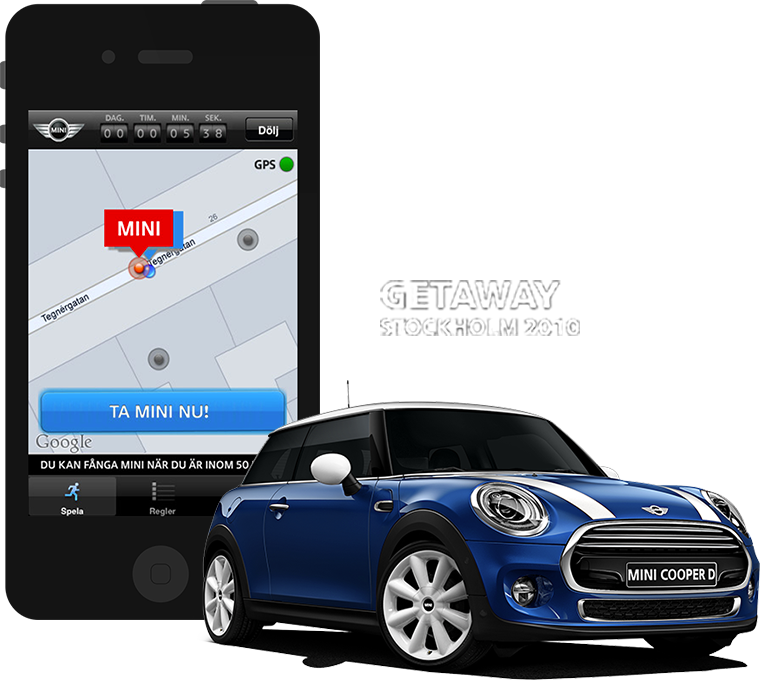
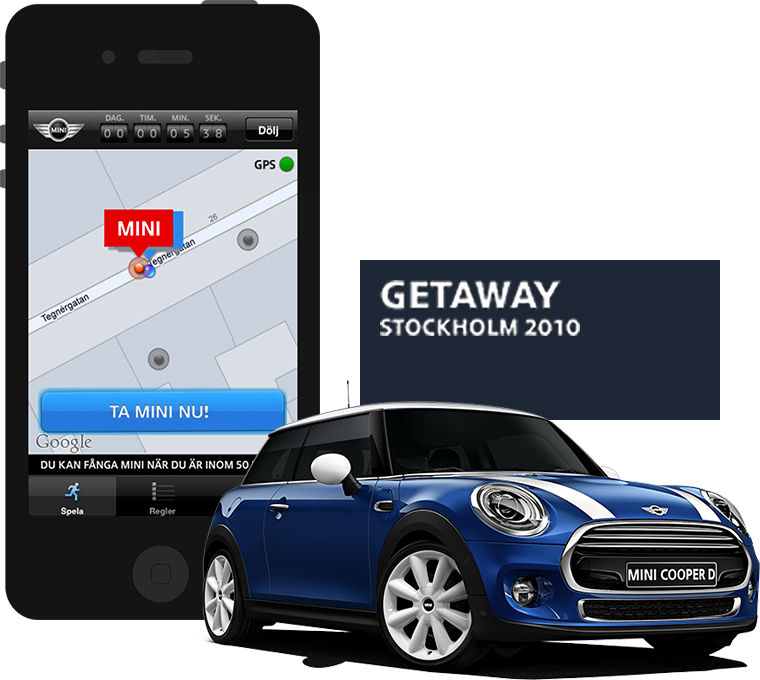
mini cooper copy and assets

Changed region(s): [[0.4539, 0.3706, 0.9684, 0.6176]]

diff --git a/site/content/work/mini-getaway.html b/site/content/work/mini-getaway.html
@@ -2,13 +2,12 @@
    "client": "",
    "date": "2014-08-29T12:49:26+02:00",
    "small_image": "mini.jpg",
-   "subtitle": "MiniCooper",
+   "pretitle": "MINI",
    "title": "Mini Getaway",
    "color": "#4f5660"
 }
 
 <img src="/img/work/case/minicooper/asset_header.png" class="work__header-image work__header-image--mini">
-
 
 <section class="work__tldr">
     <div class="container">
@@ -19,59 +18,57 @@
     </div>
 </section>
 
-
 <section class="work__section work__section--three-points work__section--mini--three-points">
     <div class="container">
         <div class="grid">
             <div class="grid__item lap-and-up-one-third">
                 <strong>Scalability</strong><br>
-                many user. such requests. wow.
-
+                A campaign that is built around a peak in users as the competiton ends needs to scale with the demand.
             </div><!--
             --><div class="grid__item lap-and-up-one-third">
                 <strong>The mission</strong><br>
-                Get the car
-
+                Chase a virtual Mini using your smartphone, and have a chance of winning a real car!
             </div><!--
             --><div class="grid__item lap-and-up-one-third">
-                <strong>GPS</strong><br>
-                irl experience
-
+                <strong>Partners</strong><br>
+                We worked with Jung von Matt and Monterosa.
             </div>
         </div>
 
     </div>
 </section>
 
-
 <section class="work__section work__section--mini--awards">
     <div class="container">
         <div class="grid">
             <div class="grid__item one-quarter">
-                fwa
+                Cannes Lions Bronze in Promo & Media  2011
             </div><!--
             --><div class="grid__item one-quarter">
-                2
+                Cannes Lions Cyber Gold 2011
             </div><!--
             --><div class="grid__item one-quarter">
-                3
+                Clio Awards
+                Gold Innovative Media & Bronze Interactive 2011
             </div><!--
             --><div class="grid__item one-quarter">
-                4
+                One Show
+                Gold Interactive 2011
             </div>
         </div>
     </div>
 </section>
 
 <section class="work__section container container--tight">
-    <img src="/img/work/case/minicooper/asset_getaway2010.jpg">
+    <img src="/img/work/case/minicooper/asset_getaway2010.png">
 </section>
 
 <section class=" container container--tight">
     <h2>Background</h2>
     <p>
-        @todo
-        Vivamus sagittis lacus vel augue laoreet rutrum faucibus dolor auctor. Etiam porta sem malesuada magna mollis euismod. Donec sed odio dui. Sed posuere consectetur est at lobortis. Lorem ipsum dolor sit amet, consectetur adipiscing elit. Duis mollis, est non commodo luctus, nisi erat porttitor ligula, eget lacinia odio sem nec elit. Praesent commodo cursus magna, vel scelerisque nisl consectetur et.
+        This digital adaption of the game of tag surrounds a virtual MINI car. The game challenges you to hunt, catch and escape with a virtual MINI using a smartphone app.
+
+        To catch the car, you have to get within 50m of the virtual MINI and press “Take The MINI Now” in the app and then escape as fast as possible, because anyone else who gets within 50m of you can instantly take the virtual MINI back. If you are the person holding the virtual MINI after 7 days of 24/7 gaming, you’ll win a real car.
     </p>
 </section>
 
@@ -82,8 +79,11 @@
 <section class="work__section container container--tight">
     <h2>What we've done</h2>
     <p>
-        @todo
-        Vivamus sagittis lacus vel augue laoreet rutrum faucibus dolor auctor. Etiam porta sem malesuada magna mollis euismod. Donec sed odio dui. Sed posuere consectetur est at lobortis. Lorem ipsum dolor sit amet, consectetur adipiscing elit. Duis mollis, est non commodo luctus, nisi erat porttitor ligula, eget lacinia odio sem nec elit. Praesent commodo cursus magna, vel scelerisque nisl consectetur et.
+        We took care of all the backend work, as well as an interface for the people handling the competition. This was one of our earliest campaigns built on Google App Engine, and we learned a lot about some more or less common pitfalls.<br>
+        We also took care of a lot of anti-cheat mechanisms as there were a lot of people trying to manipulate the game to win the car.
+    </p>
+    <p>
+        Our backend work was used for the campaign in Tokyo and Copenhagen.
     </p>
 </section>
 
@@ -93,25 +93,20 @@
         <div class="work__divider__title">Watch the video</div>
     </div>
 </section>
+
 <section class="container text--center work__section">
-
     <h3 class="epsilon">Check out the other videos as well</h3>
-
     <p>
         <a href="https://www.youtube.com/watch?v=dUuSM2IZ8PQ" class="btn btn--on-white btn--nomargin--left">Mini Getaway Tokyo</a>
         <a href="https://www.youtube.com/watch?v=faXunDKpAwI" class="btn btn--on-white">Mini Getaway Copenhagen</a>
         <a href="https://www.youtube.com/watch?v=dt9OlGq3gWU" class="btn btn--on-white">Case study Stockholm</a>
     </p>
-
-
 </section>
-
 
 <section class="work__section container container--tight">
     <h2>Afterwards</h2>
     <p>
-        @todo
-        Vivamus sagittis lacus vel augue laoreet rutrum faucibus dolor auctor. Etiam porta sem malesuada magna mollis euismod. Donec sed odio dui. Sed posuere consectetur est at lobortis. Lorem ipsum dolor sit amet, consectetur adipiscing elit. Duis mollis, est non commodo luctus, nisi erat porttitor ligula, eget lacinia odio sem nec elit. Praesent commodo cursus magna, vel scelerisque nisl consectetur et.
+        This campaign won a lot of awards, and we made a name for ourselves as a premium backend partner for ad agencies looking for scalability.
     </p>
 </section>
 

diff --git a/sass/work/_minicooper.scss b/sass/work/_minicooper.scss
@@ -9,7 +9,7 @@
 
 .content--page-work  {
     .work__header-image--mini {
-        margin-top: -350px;
+        margin-top: -160px;
     }
     .work__section--mini--three-points {
         background: #2C333D;
